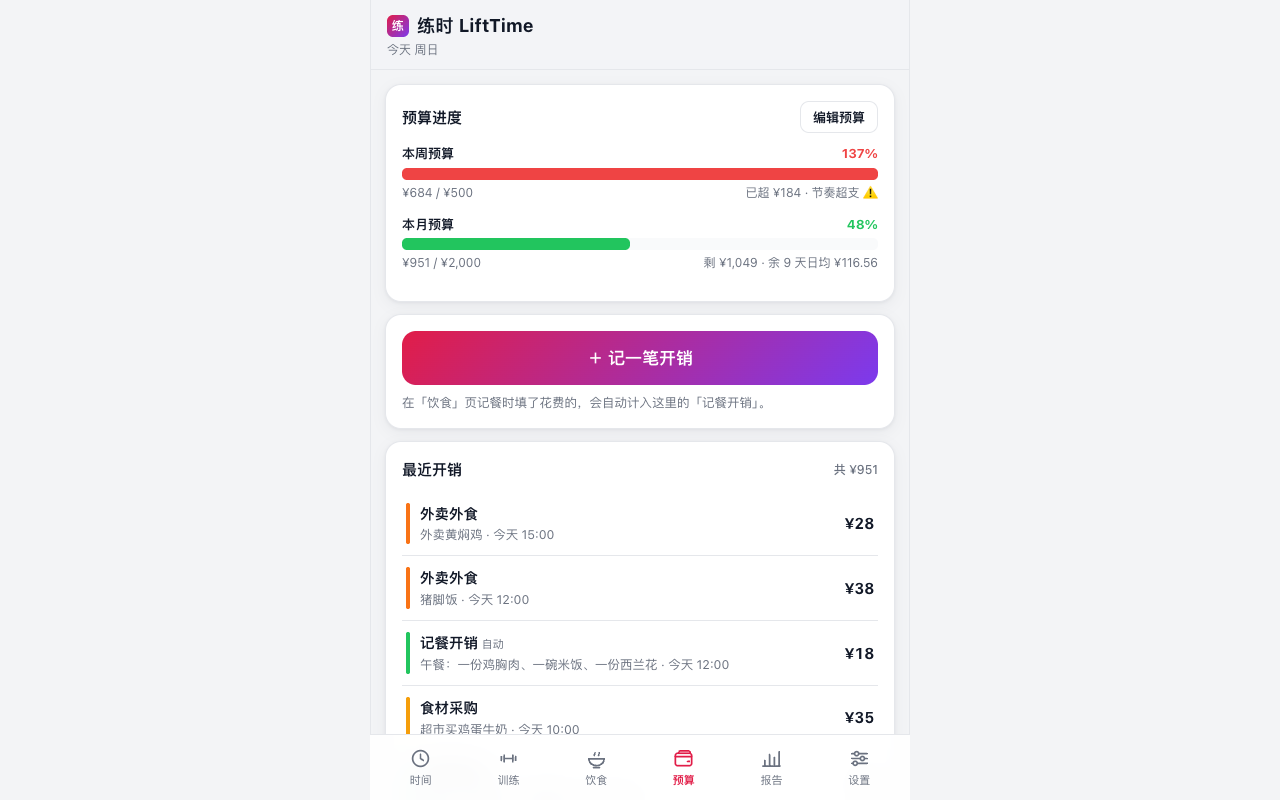
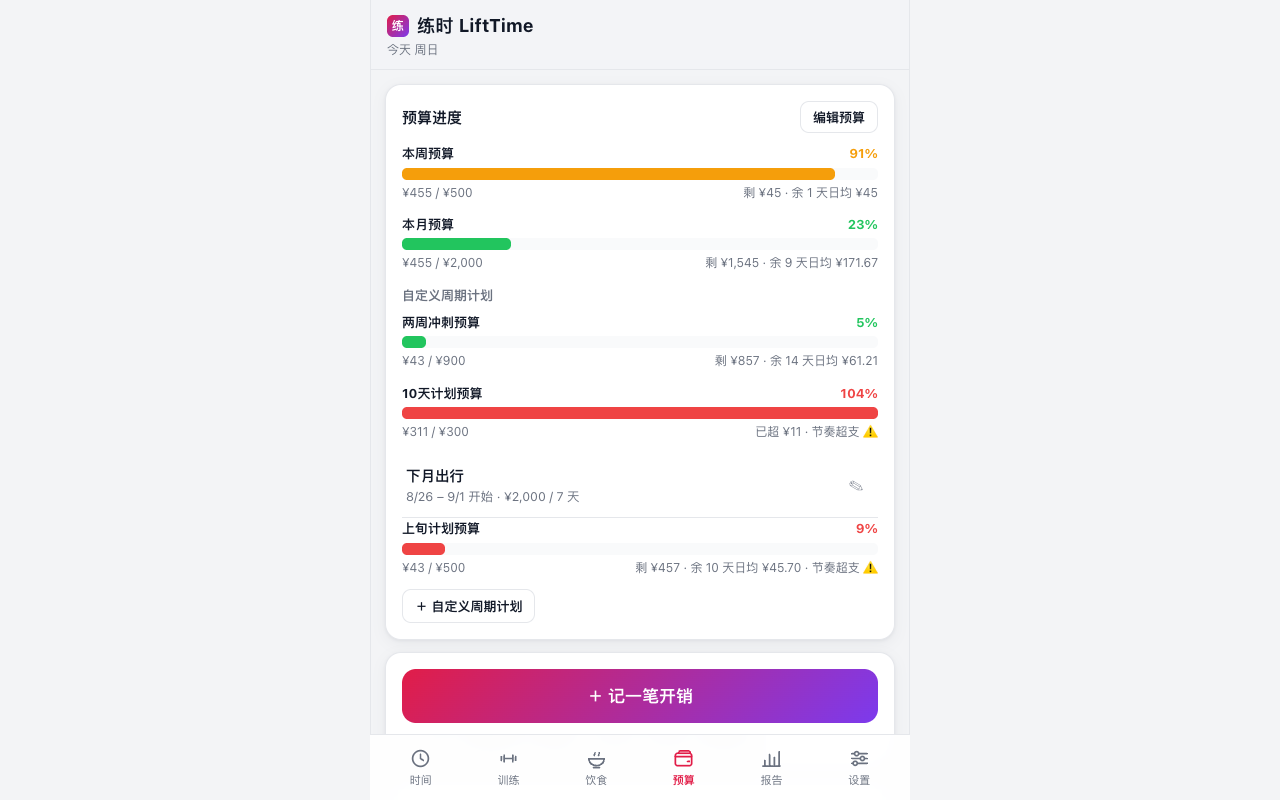
预算板块新增自定义周期计划：N 天预算自由定义
- 用户可创建任意时长/金额的预算计划（如 14 天 ¥800、10 天 ¥500），可多个并存
- 未开始（展示起始日期）/ 进行中（进度条+剩余日均+节奏预警）/ 已结束（总结+一键再来一期）
- 节奏超支时按剩余天数给出「每天控制在 ¥X 内」的拉回建议，并入建议列表最前
- 新增 13 项计划引擎单测（共 125 项，全部通过）

diff --git a/js/budget.js b/js/budget.js
@@ -5,6 +5,7 @@ import { donut, stackedBars, legend, hbars } from './charts.js';
 import {
   EXP_CATS, MANUAL_CATS, catOfExp, weekRange, monthRange, allExpenses, inRange,
   summarizeSpend, proteinEconomy, budgetStatus, budgetAdvice, fmtMoney, PROTEIN_PRICE_REF,
+  planRange, planStatus, planAdvice,
 } from './finance.js';
 import { periodDiet } from './nutrition.js';
 import { dayKey, escapeHtml, fmtHM, fmtDateCN, hmToTs } from './util.js';
@@ -61,17 +62,63 @@ function paintProgress(root) {
   const month = budgetStatus(monthSpent, st.settings.monthlyBudget, mr.start, mr.end, now);
   const box = root.querySelector('#budget-progress');
 
-  if (!week && !month) {
-    box.innerHTML = `<p class="empty">还没有设置预算。点右上角「编辑预算」，设一个周预算或月预算，这里就会显示进度和节奏提醒。</p>
-      ${progressFree('本周已花', weekSpent)}${progressFree('本月已花', monthSpent)}`;
-    return;
-  }
+  const plans = st.settings.customBudgets || [];
   let html = '';
-  if (week) html += statusBar('本周', week);
-  else html += progressFree('本周已花（未设周预算）', weekSpent);
-  if (month) html += statusBar('本月', month);
-  else html += progressFree('本月已花（未设月预算）', monthSpent);
+  if (!week && !month && !plans.length) {
+    html = `<p class="empty">还没有预算计划。点右上角「编辑预算」设周/月预算，或点下方「自定义周期计划」自由定一个 N 天计划。</p>
+      ${progressFree('本周已花', weekSpent)}${progressFree('本月已花', monthSpent)}`;
+  } else {
+    if (week) html += statusBar('本周', week);
+    else html += progressFree('本周已花（未设周预算）', weekSpent);
+    if (month) html += statusBar('本月', month);
+    else html += progressFree('本月已花（未设月预算）', monthSpent);
+  }
+  // 自定义周期计划
+  html += `<div class="section-title" style="margin-top:6px">自定义周期计划</div>`;
+  if (!plans.length) {
+    html += `<p class="hint" style="margin:0 0 8px">还没有自定义计划——比如「14 天 ¥800」「10 天 ¥500」，天数金额随你定。</p>`;
+  }
+  plans.forEach(plan => { html += planCard(plan, all, now); });
+  html += `<button class="btn btn-ghost btn-small" id="btn-add-plan">＋ 自定义周期计划</button>`;
   box.innerHTML = html;
+
+  box.querySelector('#btn-add-plan').addEventListener('click', () => planSheet(null));
+  box.querySelectorAll('[data-plan-edit]').forEach(b => b.addEventListener('click', e => {
+    e.stopPropagation();
+    planSheet(b.dataset.planEdit);
+  }));
+  box.querySelectorAll('[data-plan-renew]').forEach(b => b.addEventListener('click', e => {
+    e.stopPropagation();
+    const store = getState();
+    const p = (store.settings.customBudgets || []).find(x => x.id === b.dataset.planRenew);
+    if (!p) return;
+    p.startTs = Date.now();
+    commit();
+    toast('「' + (p.name || p.days + '天计划') + '」已从今天开始新的一期');
+  }));
+  box.querySelectorAll('[data-plan-card]').forEach(el => el.addEventListener('click', () => planSheet(el.dataset.planCard)));
+}
+
+function planCard(plan, all, now) {
+  const { start, end } = planRange(plan);
+  const spent = summarizeSpend(inRange(all, start, end)).total;
+  const pst = planStatus(plan, spent, now);
+  const name = escapeHtml(plan.name || plan.days + '天计划');
+  const rangeText = `${new Date(start).getMonth() + 1}/${new Date(start).getDate()} – ${new Date(end - 86400000).getMonth() + 1}/${new Date(end - 86400000).getDate()}`;
+  if (pst.notStarted) {
+    return `<div class="row" data-plan-card="${plan.id}" style="cursor:pointer;border-bottom:1px solid var(--line)">
+      <div class="row-main"><div class="row-title">${name}</div>
+      <div class="row-sub">${rangeText} 开始 · ¥${fmtMoney(plan.amount)} / ${plan.days} 天</div></div>
+      <button class="icon-btn" data-plan-edit="${plan.id}" aria-label="编辑">✎</button></div>`;
+  }
+  if (pst.ended) {
+    const pct = plan.amount > 0 ? Math.round(spent / plan.amount * 100) : 0;
+    return `<div class="row" data-plan-card="${plan.id}" style="cursor:pointer;border-bottom:1px solid var(--line)">
+      <div class="row-main"><div class="row-title">${name} <span style="color:var(--muted);font-weight:400;font-size:11px">已结束</span></div>
+      <div class="row-sub">${rangeText} · 共花 ¥${fmtMoney(spent)} / ¥${fmtMoney(plan.amount)}（${pct}%）</div></div>
+      <button class="btn btn-ghost btn-small" data-plan-renew="${plan.id}" style="min-height:32px">再来一期</button></div>`;
+  }
+  return `<div data-plan-card="${plan.id}" style="cursor:pointer">${statusBar(name, pst)}</div>`;
 }
 
 function progressFree(label, v) {
@@ -210,6 +257,61 @@ function budgetSheet() {
   });
 }
 
+/* ---------- 自定义周期计划 ---------- */
+
+function planSheet(editId) {
+  const st = getState();
+  if (!st.settings.customBudgets) st.settings.customBudgets = [];
+  const existing = editId ? st.settings.customBudgets.find(p => p.id === editId) : null;
+  const now = Date.now();
+  const body = document.createElement('div');
+  body.innerHTML = `
+    <div class="field"><label>计划名称（可选）</label>
+      <input id="pl-name" maxlength="12" placeholder="如：两周冲刺 / 国庆长假" value="${existing ? escapeHtml(existing.name || '') : ''}"></div>
+    <div class="form-row">
+      <div class="field"><label>预算金额 ¥</label>
+        <input type="number" inputmode="decimal" min="0" step="any" id="pl-amount" placeholder="如 800" value="${existing ? existing.amount : ''}"></div>
+      <div class="field"><label>时长（天）</label>
+        <input type="number" inputmode="numeric" min="1" max="365" step="1" id="pl-days" placeholder="如 14" value="${existing ? existing.days : 14}"></div>
+    </div>
+    <div class="field"><label>开始日期</label>
+      <input type="date" id="pl-start" value="${existing ? dayKey(existing.startTs) : dayKey(now)}"></div>
+    <p class="hint">从开始日期 0 点起算，持续你设的天数；结束后会保留总结，可以一键「再来一期」。</p>
+    <div style="display:flex;gap:10px">
+      ${existing ? '<button class="btn btn-ghost" id="pl-del" style="flex:1;color:var(--brand)">删除计划</button>' : ''}
+      <button class="btn btn-primary" id="pl-save" style="flex:1.6">${existing ? '保存修改' : '创建计划'}</button>
+    </div>`;
+  const { close } = openSheet(existing ? '编辑周期计划' : '自定义周期计划', body, { sticky: true });
+  body.querySelector('#pl-save').addEventListener('click', () => {
+    const amount = Number(body.querySelector('#pl-amount').value);
+    const days = Math.round(Number(body.querySelector('#pl-days').value));
+    if (!(amount > 0)) { toast('先填预算金额'); return; }
+    if (!(days >= 1 && days <= 365)) { toast('天数填 1–365'); return; }
+    const startTs = hmToTs(body.querySelector('#pl-start').value || dayKey(now), '00:00');
+    const name = body.querySelector('#pl-name').value.trim() || (days + '天计划');
+    const store = getState();
+    if (!store.settings.customBudgets) store.settings.customBudgets = [];
+    if (existing) {
+      Object.assign(existing, { name, amount: Math.round(amount * 100) / 100, days, startTs });
+      toast('计划已更新');
+    } else {
+      store.settings.customBudgets.push({ id: uid(), name, amount: Math.round(amount * 100) / 100, days, startTs });
+      toast('已创建「' + name + '」');
+    }
+    commit();
+    close();
+  });
+  const del = body.querySelector('#pl-del');
+  if (del) del.addEventListener('click', async () => {
+    if (await confirmD('删除这个预算计划？（不会删除任何开销记录）', { danger: true, yes: '删除' })) {
+      const store = getState();
+      store.settings.customBudgets = (store.settings.customBudgets || []).filter(p => p.id !== editId);
+      commit();
+      close();
+    }
+  });
+}
+
 /* ---------- 趋势与总结 ---------- */
 
 function paintPeriod(root) {
@@ -279,7 +381,14 @@ function paintPeriod(root) {
     proteinEco: eco,
     proteinHitRate,
   });
+  // 自定义计划建议（进行中且需要提醒的排在最前）
+  const planAdvices = (st.settings.customBudgets || []).map(p => {
+    const r = planRange(p);
+    const spent = summarizeSpend(inRange(all, r.start, r.end)).total;
+    return planAdvice(p, planStatus(p, spent, now));
+  }).filter(Boolean);
+  const allAdvice = planAdvices.concat(advice);
   html += `<div class="section-title">给你的建议</div><ul class="advice-list">` +
-    advice.map(a => `<li>${escapeHtml(a)}</li>`).join('') + `</ul>`;
+    allAdvice.map(a => `<li>${escapeHtml(a)}</li>`).join('') + `</ul>`;
   box.innerHTML = html;
 }

diff --git a/js/finance.js b/js/finance.js
@@ -94,6 +94,38 @@ export function proteinEconomy(dietEntries, start, end) {
   };
 }
 
+/** 自定义周期计划区间：{days, startTs} → 起始日 00:00 起 N 天 */
+export function planRange(plan) {
+  const d = new Date(plan.startTs); d.setHours(0, 0, 0, 0);
+  const start = d.getTime();
+  return { start, end: start + plan.days * 86400000 };
+}
+
+/** 自定义计划状态 = budgetStatus + notStarted/ended 标记 */
+export function planStatus(plan, spent, now) {
+  const { start, end } = planRange(plan);
+  const st = budgetStatus(spent, plan.amount, start, end, now);
+  if (!st) return { start, end, notStarted: now < start, ended: now >= end, invalid: true };
+  return Object.assign(st, { start, end, notStarted: now < start, ended: now >= end });
+}
+
+/** 自定义计划建议（进行中且需要提醒时返回文案） */
+export function planAdvice(plan, st) {
+  if (!st || st.invalid || st.notStarted || st.ended) return null;
+  const name = plan.name || plan.days + '天计划';
+  if (st.overProjected) {
+    if (st.remaining < 0) {
+      return '「' + name + '」已超预算 ¥' + fmtMoney(-st.remaining) + '，剩余 ' + st.daysLeft + ' 天尽量零额外开销。';
+    }
+    return '「' + name + '」按目前节奏预计花 ¥' + fmtMoney(st.projected) + '，会超预算 ¥' + fmtMoney(st.projected - st.budget) +
+      '；剩 ' + st.daysLeft + ' 天每天控制在 ¥' + fmtMoney(Math.max(0, st.perDayLeft)) + ' 内可以拉回。';
+  }
+  if (st.pct >= 85 && st.daysLeft > 1) {
+    return '「' + name + '」预算已用 ' + st.pct + '%，还剩 ' + st.daysLeft + ' 天，后面留意节奏。';
+  }
+  return null;
+}
+
 /** 预算进度（含节奏预测） */
 export function budgetStatus(spent, budget, rangeStart, rangeEnd, now) {
   if (!budget || budget <= 0) return null;

diff --git a/js/store.js b/js/store.js
@@ -28,7 +28,7 @@ export const DEFAULT_CATEGORIES = [
 export function defaults() {
   return {
     version: 1,
-    settings: { unit: 'kg', bodyweight: null, theme: 'auto', weeklyBudget: null, monthlyBudget: null },
+    settings: { unit: 'kg', bodyweight: null, theme: 'auto', weeklyBudget: null, monthlyBudget: null, customBudgets: [] },
     categories: DEFAULT_CATEGORIES.slice(),
     timer: null,          // { startedAt } 正在进行的练前计时
     timeBlocks: [],       // {id, start, end, cat, note}

diff --git a/sw.js b/sw.js
@@ -1,5 +1,5 @@
 // 练时 LiftTime Service Worker：应用壳缓存优先，离线可用
-const CACHE = 'lifttime-v1.2.1';
+const CACHE = 'lifttime-v1.2.2';
 const ASSETS = [
   './',
   './index.html',

diff --git a/README.md b/README.md
@@ -42,6 +42,7 @@
 
 ### 💰 预算
 - **周/月预算计划**：设置后实时显示进度条、剩余额度、「今天起日均还能花多少」；按当前花销节奏预测是否超支并提前提醒
+- **自定义周期计划**：天数金额完全自由（如「14 天 ¥800」「10 天 ¥500」），可多个并存；未开始/进行中/已结束三种状态分别展示，结束后一键「再来一期」；节奏超支时给出「每天控制在 ¥X 内」的拉回建议
 - 记一笔：金额 + 分类（食材采购/外卖外食/聚餐/补剂/健身相关/其他）+ 备注
 - 周/月总结：每日开销堆叠图、分类构成环形图、餐饮占比、建议
 
@@ -89,7 +90,7 @@
 ## 开发
 
 ```bash
-npm test          # 单元测试（训练 47 + 饮食 36 + 预算 29，共 112 项断言）
+npm test          # 单元测试（训练 47 + 饮食 36 + 预算 42，共 125 项断言）
 npm run icons     # 重新生成 PWA 图标（纯 Node PNG 编码）
 npm run serve     # 本地预览 http://localhost:8130
 ```
